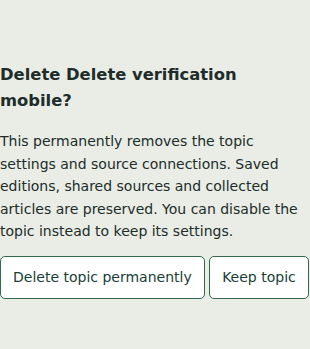
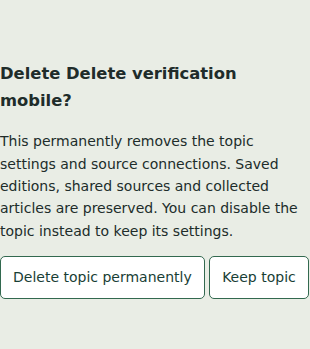
Keep topic deletion browser checks off production writes

Changed region(s): [[0.0, 0.5731, 0.4935, 0.6304], [0.0, 0.1719, 0.7548, 0.2292], [0.5226, 0.5731, 0.9581, 0.6304]]

diff --git a/scripts/smoke-topic-delete.ts b/scripts/smoke-topic-delete.ts
@@ -1,56 +1,63 @@
 import assert from 'node:assert/strict';
+import { randomUUID } from 'node:crypto';
 
-import { topicSchema, topicUpdateSchema } from '@digest/contracts';
+import { topicSchema } from '@digest/contracts';
 import { chromium } from 'playwright';
 const base = 'http://localhost:8000';
 async function smoke() {
   const browser = await chromium.launch();
   const context = await browser.newContext();
-  const created: string[] = [];
   const original = topicSchema
     .array()
     .parse(await (await context.request.get(base + '/api/topics')).json());
-  const catalog = await (
-    await context.request.get(base + '/api/topics/sources')
+  const latest = await (
+    await context.request.get(base + '/api/digest-previews/latest')
   ).json();
-  const sourceBefore = await (
-    await context.request.get(base + '/api/content/sources')
-  ).json();
+  const replayTopics = structuredClone(original);
+  let failDelete = true;
+  let deletes = 0;
+  // Only the browser can write, and every write is intercepted in memory.
+  await context.route('**/api/**', async (route) => {
+    const request = route.request();
+    const path = new URL(request.url()).pathname;
+    if (path === '/api/topics' && request.method() === 'GET') {
+      await route.fulfill({ json: replayTopics });
+      return;
+    }
+    if (request.method() === 'DELETE') {
+      const index = replayTopics.findIndex(
+        (topic) => path === '/api/topics/' + topic.id,
+      );
+      assert.ok(
+        index >= original.length,
+        'Only a synthetic topic may be deleted',
+      );
+      deletes++;
+      if (failDelete) {
+        await route.fulfill({ status: 503, body: 'Unavailable' });
+      } else {
+        replayTopics.splice(index, 1);
+        await route.fulfill({ json: replayTopics });
+      }
+      return;
+    }
+    assert.equal(request.method(), 'GET', `Unexpected browser write: ${path}`);
+    await route.continue();
+  });
   try {
     for (const [device, width, height] of [
       ['desktop', 1440, 1100],
       ['mobile', 390, 844],
     ] as const) {
-      const response = await context.request.post(base + '/api/topics', {
-        data: {
-          ...topicUpdateSchema.strip().parse(original[0]),
-          name: 'Delete verification ' + device,
-          relevancePolicy: { includeAny: [], excludeAny: [] },
-        },
+      const topic = topicSchema.parse({
+        ...original[0],
+        id: randomUUID(),
+        name: 'Delete verification ' + device,
+        position: original.length,
       });
-      assert.equal(response.status(), 201);
-      const topic = topicSchema.parse(await response.json());
-      created.push(topic.id);
-      assert.equal(
-        (
-          await context.request.put(
-            base + '/api/topics/' + topic.id + '/sources',
-            { data: { ids: [catalog[0].id] } },
-          )
-        ).status(),
-        200,
-      );
-      const end = new Date(),
-        start = new Date(end.getTime() - 86400000);
-      const edition = await (
-        await context.request.post(base + '/api/digest-previews', {
-          data: {
-            windowStart: start.toISOString(),
-            windowEnd: end.toISOString(),
-          },
-        })
-      ).json();
-      assert.ok(edition.topics.some((t: { id: string }) => t.id === topic.id));
+      replayTopics.push(topic);
+      failDelete = true;
+      const deletesBefore = deletes;
       const page = await context.newPage();
       await page.setViewportSize({ width, height });
       await page.goto(base);
@@ -65,11 +72,8 @@ async function smoke() {
       await confirmation
         .getByRole('button', { name: 'Keep topic', exact: true })
         .click();
-      assert.ok(
-        (await (await context.request.get(base + '/api/topics')).json()).some(
-          (t: { id: string }) => t.id === topic.id,
-        ),
-      );
+      assert.ok(replayTopics.some((saved) => saved.id === topic.id));
+      assert.equal(deletes, deletesBefore, 'Cancel must not send a delete');
       await page
         .getByRole('button', { name: 'Delete ' + topic.name, exact: true })
         .click();
@@ -77,12 +81,6 @@ async function smoke() {
       await confirmation.screenshot({
         path: 'docs/screenshots/topic-delete-' + device + '.png',
       });
-      // Failed deletion must preserve the topic and allow retry.
-      await page.route('**/api/topics/' + topic.id, (route) =>
-        route.request().method() === 'DELETE'
-          ? route.fulfill({ status: 503, body: 'Unavailable' })
-          : route.continue(),
-      );
       await confirmation
         .getByRole('button', { name: 'Delete topic permanently', exact: true })
         .click();
@@ -90,7 +88,9 @@ async function smoke() {
         .getByRole('status')
         .filter({ hasText: 'Could not delete topic.' })
         .waitFor();
-      await page.unroute('**/api/topics/' + topic.id);
+      assert.ok(replayTopics.some((saved) => saved.id === topic.id));
+      assert.equal(deletes, deletesBefore + 1);
+      failDelete = false;
       await confirmation
         .getByRole('button', { name: 'Delete topic permanently', exact: true })
         .click();
@@ -99,6 +99,13 @@ async function smoke() {
         .filter({ hasText: 'Deleted ' + topic.name + '.' })
         .waitFor();
       await page.reload();
+      await page
+        .locator('.topic-grid')
+        .getByRole('heading', {
+          name: original[0].name,
+          exact: true,
+        })
+        .waitFor();
       assert.equal(
         await page
           .locator('.topic-grid')
@@ -112,58 +119,26 @@ async function smoke() {
         ),
         true,
       );
-      assert.deepEqual(
-        await (await context.request.get(base + '/api/topics')).json(),
-        original,
-      );
-      assert.equal(
-        (
-          await context.request.delete(base + '/api/topics/' + topic.id)
-        ).status(),
-        404,
-      );
-      assert.deepEqual(
-        await (
-          await context.request.get(base + '/api/digest-previews/' + edition.id)
-        ).json(),
-        edition,
-      );
-      const fresh = await (
-        await context.request.post(base + '/api/digest-previews', {
-          data: {
-            windowStart: start.toISOString(),
-            windowEnd: end.toISOString(),
-          },
-        })
-      ).json();
-      assert.equal(
-        fresh.topics.some((t: { id: string }) => t.id === topic.id),
-        false,
-      );
+      assert.deepEqual(replayTopics, original);
+      assert.equal(deletes, deletesBefore + 2);
       await page.close();
     }
-    assert.deepEqual(
-      await (await context.request.get(base + '/api/topics/sources')).json(),
-      catalog,
-    );
-    const sources = await (
-      await context.request.get(base + '/api/content/sources')
-    ).json();
-    for (const before of sourceBefore) {
-      const after = sources.find((s: { id: string }) => s.id === before.id);
-      assert.ok(after);
-      assert.ok(after.storedItems >= before.storedItems);
-    }
-    assert.equal(
-      (await context.request.delete(base + '/api/topics/not-a-uuid')).status(),
-      400,
-    );
     console.log(
-      'Topic deletion desktop/mobile: cancel, error/retry, removal, order, immutable history, new editions and shared real content passed',
+      'Topic deletion desktop/mobile: browser replay cancel, error/retry, removal, reload and order passed; no production writes or generation',
     );
   } finally {
-    for (const id of created)
-      await context.request.delete(base + '/api/topics/' + id);
+    assert.deepEqual(
+      await (await context.request.get(base + '/api/topics')).json(),
+      original,
+      'Browser replay must never change live topics',
+    );
+    if (latest)
+      assert.deepEqual(
+        await (
+          await context.request.get(base + '/api/digest-previews/' + latest.id)
+        ).json(),
+        latest,
+      );
     await browser.close();
   }
 }

diff --git a/PROGRESS.md b/PROGRESS.md
@@ -1,13 +1,3 @@
-## 2026-11-04: iteration 683 — offline failed-batch recovery measurement
-
-- Started clean on main; no leftover work. Zero alerts, healthy healthz/database/Redis and 36 healthy nonempty sources; no failed retained digest jobs. Next edition Nov 5 15:00 UTC.
-- Added offline first-call refusal/throw probe through real article/social triage loops, with explicit recovery and a final cache-only pass. No provider, DB or secret access; no production retry change or paid calls.
-- Synthetic 200-item pool: size-200 caller passes retain 150 sibling scores after failure and recover with one 50-item call; size-25 passes retain zero and recover with eight 25-item calls. Total requested items 250 vs 225; all 200 score successfully once, repeat zero calls. No live latency/cost/failure-rate claim.
-- Updated TASKS/concurrency evidence; archived iterations 667–668 to keep PROGRESS small. SOURCES/handbook unchanged because runtime/source behavior is unchanged.
-- Verification: targeted recovery tests 2/2, standalone strict tsc, pnpm format, pnpm lint:fix, pnpm check (435 unit/209 isolated integration), pnpm build and git diff --check passed. Initial lint/check caught require-await in fake cache methods; fixed before final checks.
-- Final healthz healthy, zero alerts and 36 healthy nonempty sources. No restart under STEERING 22: running services do not import the offline probe.
-- X experiment remains blocked on supported per-call bound or owner decision. Next: Nov 5 grouping/NBA/cost/latency/screenshots; compare actual batching/repair evidence before tuning.
-
 ## 2026-11-04: iteration 685 — saved X experiment budget/time diagnostics
 
 - Started clean on main; no leftover work. Zero alerts, healthy healthz/database/Redis, 36 healthy sources and no failed digest jobs in inspected history.
@@ -153,3 +143,12 @@
 - Kept desktop/mobile required-name, create/reload, source-less display, order and overflow checks. Request counts prove native validation prevents creation. Replay is synthetic browser behavior, not server persistence evidence; isolated HTTP tests retain server coverage.
 - Playwright passed and desktop/mobile screenshots reviewed. No paid calls, production writes or app changes. SOURCES/handbook unchanged; no restart under STEERING 22 because running code is unchanged.
 - Verification: pnpm format, pnpm lint:fix, standalone strict tsc, Playwright, pnpm check (455 unit/209 isolated integration), pnpm build and git diff --check passed. Next: Nov 5 grouping/NBA AI/cost/latency/screenshots; other older topic browser scripts may still need write isolation.
+
+## 2026-11-04: iteration 701 — isolate topic-deletion browser verification
+
+- Started clean on main; no leftover work. Zero alerts, healthy healthz/database/Redis, 36 active error-free article sources and zero retained failed digest jobs. Latest hourly Bluesky recovery completed; Nov 5 evidence remains future.
+- Replaced topic-delete smoke production creates, source writes, deletes and digest generation with browser-only synthetic topic replay. Unknown browser writes are rejected; direct API requests only read live topics and the saved edition.
+- Desktop/mobile Playwright checks passed: cancel sends no delete, HTTP failure preserves the topic, retry removes it, reload and order remain correct, no overflow. Screenshots updated and reviewed. Server deletion behavior remains covered by isolated HTTP/repository tests; replay is not server-persistence evidence.
+- Verification: `pnpm exec tsx scripts/smoke-topic-delete.ts`, strict tsc with repository path mapping, `pnpm format`, `pnpm lint:fix`, `pnpm check` (455 unit/209 isolated integration), `pnpm build` and `git diff --check` passed. Initial standalone tsc lacked workspace alias/Node type mapping; corrected with a temporary config extending repository settings.
+- Updated TASKS; archived iteration 683 to bound PROGRESS. SOURCES/handbook unchanged for browser verification only. No paid calls or production configuration changes. No restart under STEERING 22: running services do not import this script.
+- Next: Nov 5 grouping/NBA AI/cost/latency/screenshots; paid X experiment blocked on a documented per-call bound. Other older topic browser scripts still need write isolation.

diff --git a/TASKS.md b/TASKS.md
@@ -30,7 +30,7 @@ STEERING overrides older milestone notes; implementation history is in PROGRESS.
 - [ ] M3: first fully AI-edited scheduled digest; NBA acceptance above. Audit work closed under STEERING 5; resume only for an actual unsupported summary. Deferred: Message Batches, cross-process cache coordination, full articles and larger editor shortlists.
 - [ ] M4 Social posts: real X picks across all four topics; Nov 4 X counts Tech/NBA/Gaming/World 4/5/5/0, plus one Tech Bluesky. Immutable storage, official embeds, capped discovery, semantic editing and citation links implemented. Semantic same-event links and virality acceptance remain open. Reddit parked; Bluesky secondary.
 - [ ] M5: grouping activation evidence above; verified outlet independence, explainable scores and per-topic guidance. Need independently reviewed labels, different dates and Gaming; agent-labelled windows are not general quality estimates.
-- [ ] M6: topics CRUD/reorder/enable, schedule/budgets and on-demand window UI; editable Reddit communities and automatic schedule/run visibility already connected. Direct Enable/Disable controls verified on desktop/mobile (692); Saved-edition selection now survives delayed initial success/error responses (694); History refresh now ignores superseded success/error responses after background completion (697); Topic-create browser checks now replay writes without production topics, SQL cleanup or generation (700); broader milestone acceptance remains open.
+- [ ] M6: topics CRUD/reorder/enable, schedule/budgets and on-demand window UI; editable Reddit communities and automatic schedule/run visibility already connected. Direct Enable/Disable controls verified on desktop/mobile (692); Saved-edition selection now survives delayed initial success/error responses (694); History refresh now ignores superseded success/error responses after background completion (697); Topic-create browser checks now replay writes without production topics, SQL cleanup or generation (700); Topic-delete browser checks replay cancellation/error/retry/removal without production writes or generation (701); broader milestone acceptance remains open.
 - [ ] M7: durable recovery beyond retained Redis jobs; DigestPublished event and log/in-app notification adapter. No real notifications.
 - [ ] Ongoing: source balance (item 10) paused under 27; Yardbarker prepared/disabled. Precision, UI, retention/backups, resilience.
 - [ ] STEERING 24/25 background only: [observability plan](docs/observability-plan.md). O1–O10 verified (442); O8 unavailable counts remain unknown. Stop CLI/dashboard refinements. O11 deferred (620): observed 548.72 MiB daily peak exceeds approximate 500 MiB target; require isolated overhead benchmark before reconsidering. Monitor metrics/log/Grafana cache refill under existing soft/hard memory limits.

diff --git a/docs/progress-archive/iteration-683.md b/docs/progress-archive/iteration-683.md
@@ -1,0 +1,9 @@
+## 2026-11-04: iteration 683 — offline failed-batch recovery measurement
+
+- Started clean on main; no leftover work. Zero alerts, healthy healthz/database/Redis and 36 healthy nonempty sources; no failed retained digest jobs. Next edition Nov 5 15:00 UTC.
+- Added offline first-call refusal/throw probe through real article/social triage loops, with explicit recovery and a final cache-only pass. No provider, DB or secret access; no production retry change or paid calls.
+- Synthetic 200-item pool: size-200 caller passes retain 150 sibling scores after failure and recover with one 50-item call; size-25 passes retain zero and recover with eight 25-item calls. Total requested items 250 vs 225; all 200 score successfully once, repeat zero calls. No live latency/cost/failure-rate claim.
+- Updated TASKS/concurrency evidence; archived iterations 667–668 to keep PROGRESS small. SOURCES/handbook unchanged because runtime/source behavior is unchanged.
+- Verification: targeted recovery tests 2/2, standalone strict tsc, pnpm format, pnpm lint:fix, pnpm check (435 unit/209 isolated integration), pnpm build and git diff --check passed. Initial lint/check caught require-await in fake cache methods; fixed before final checks.
+- Final healthz healthy, zero alerts and 36 healthy nonempty sources. No restart under STEERING 22: running services do not import the offline probe.
+- X experiment remains blocked on supported per-call bound or owner decision. Next: Nov 5 grouping/NBA/cost/latency/screenshots; compare actual batching/repair evidence before tuning.
